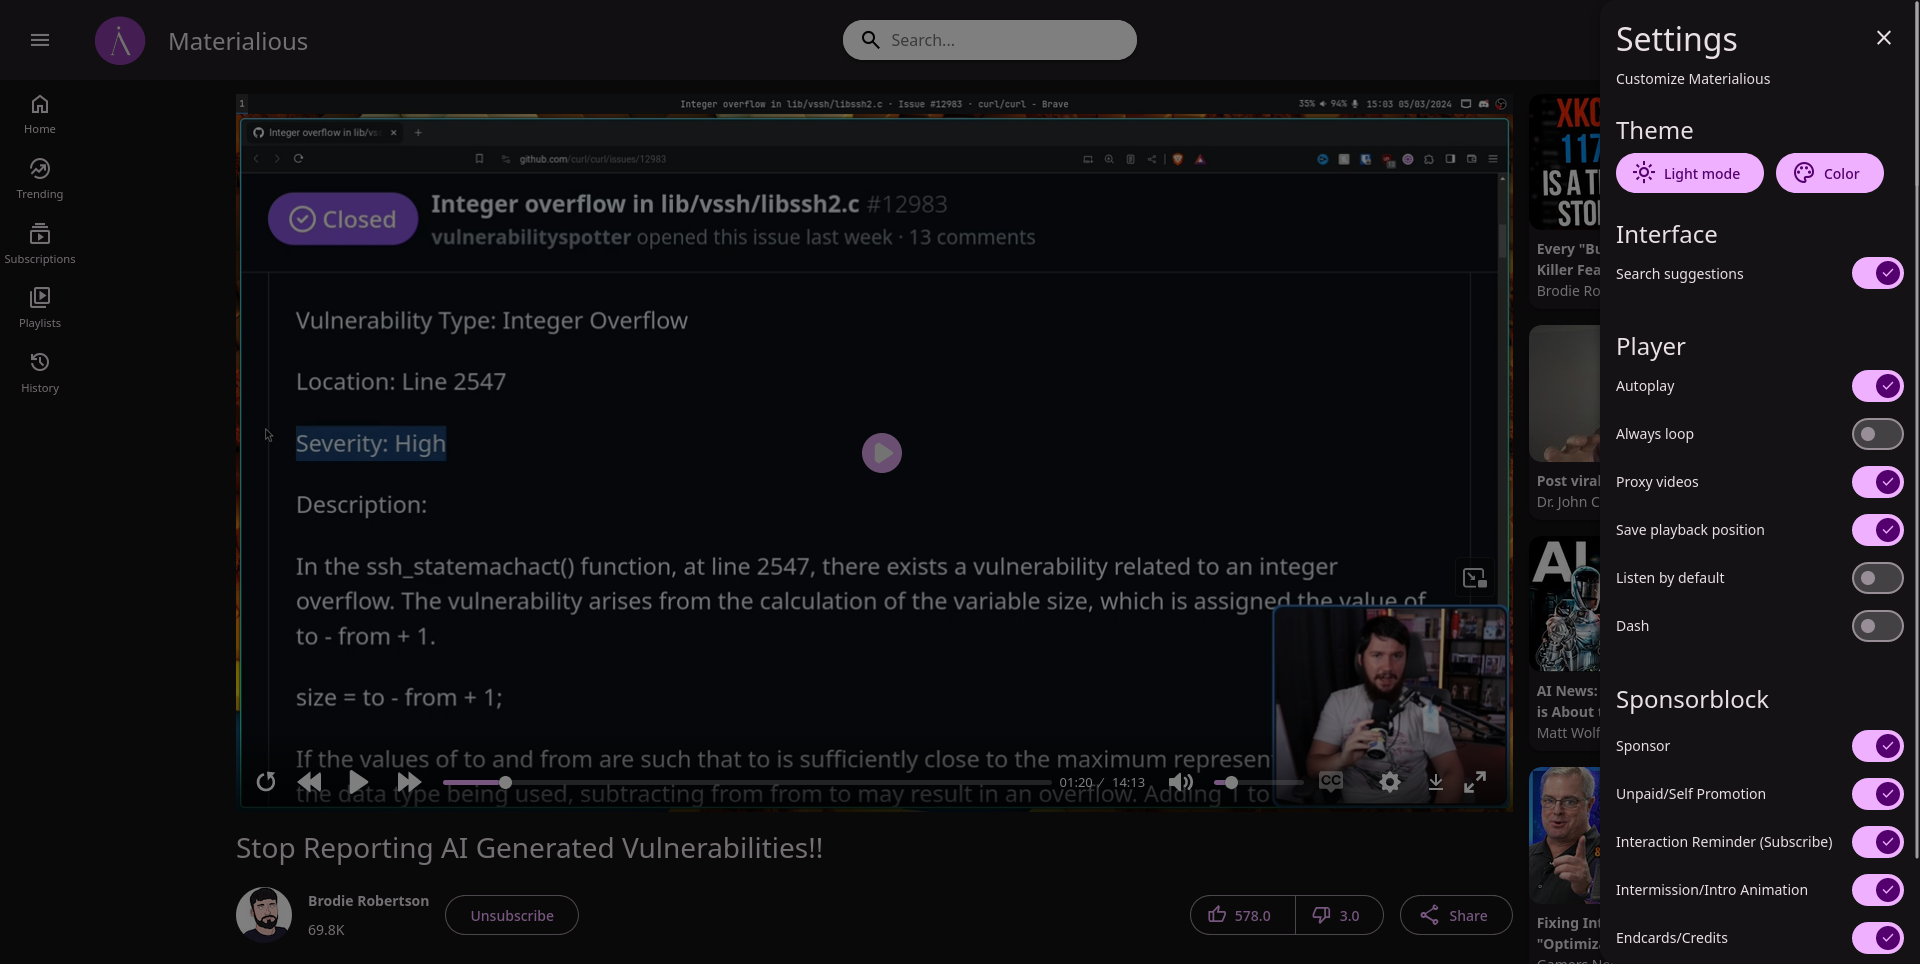
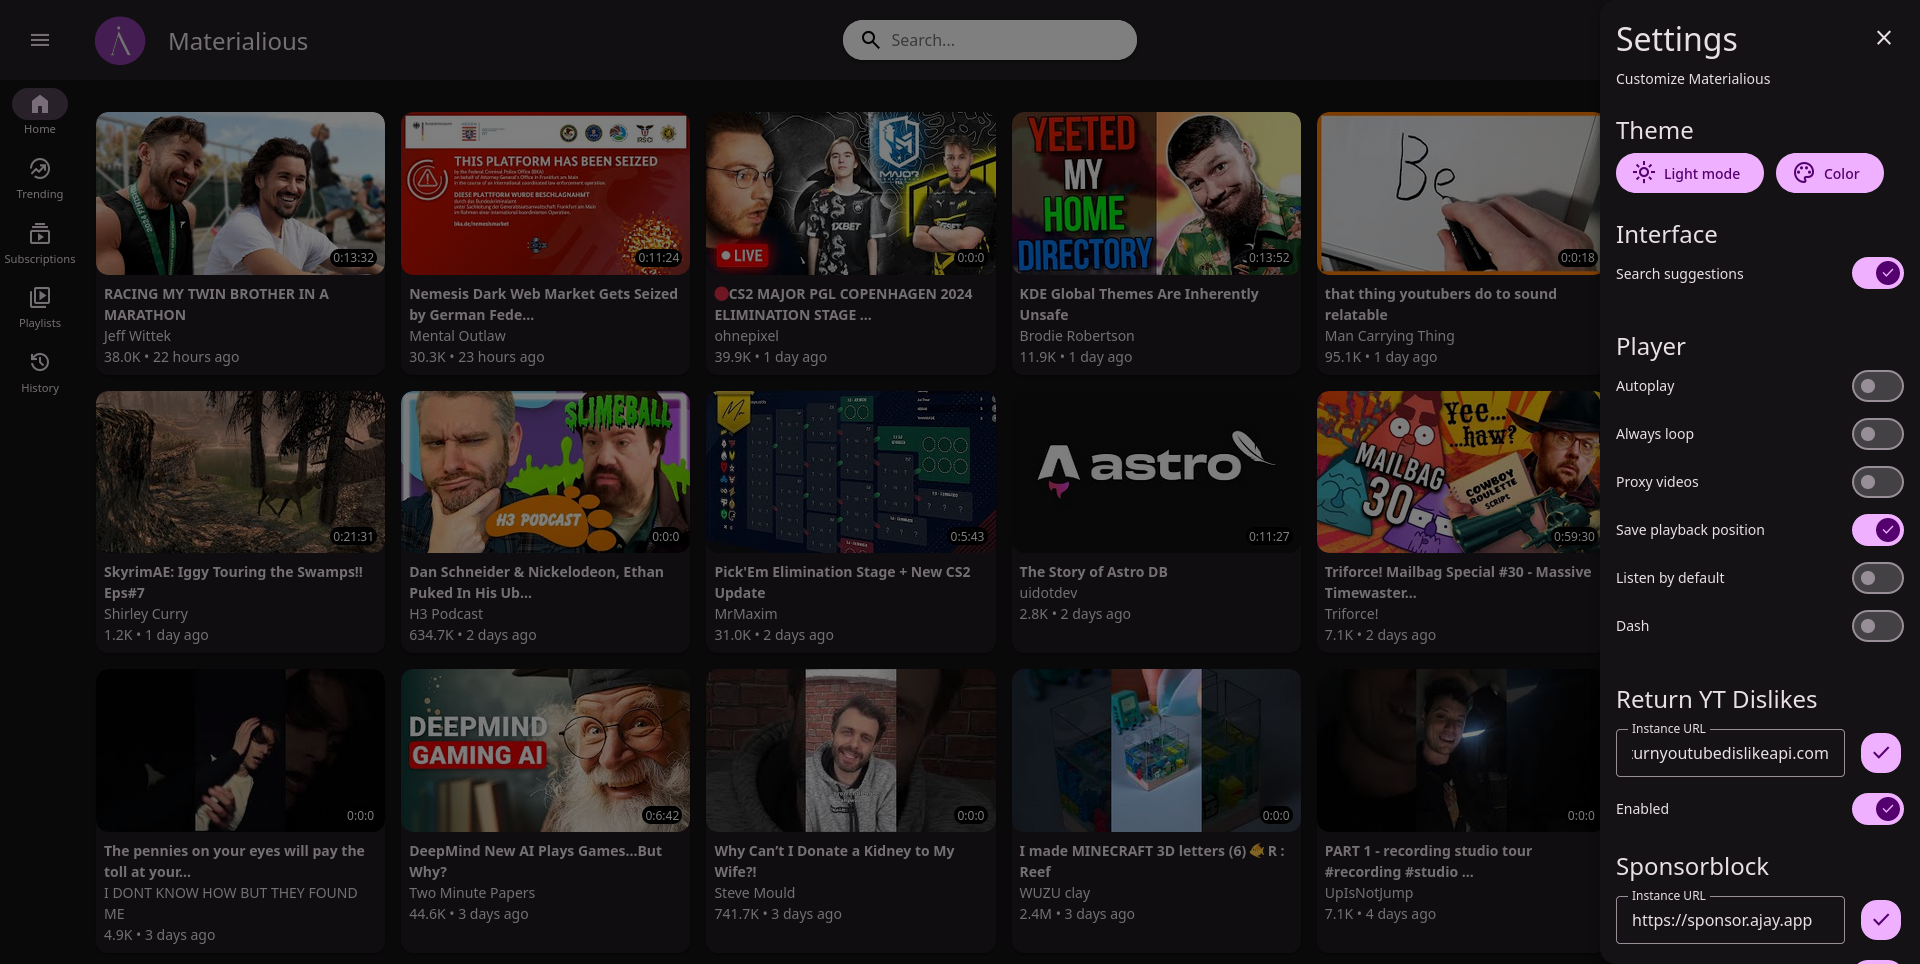
Added support for custom return yt & sponsorskip instances

diff --git a/materialious/src/routes/+layout.svelte b/materialious/src/routes/+layout.svelte
@@ -18,9 +18,11 @@
 		playerListenByDefault,
 		playerProxyVideos,
 		playerSavePlaybackPosition,
+		returnYTDislikesInstance,
 		returnYtDislikes,
 		sponsorBlock,
 		sponsorBlockCategories,
+		sponsorBlockUrl,
 		themeColor
 	} from '../store';
 
@@ -71,6 +73,9 @@
 	});
 
 	let notifications: Notification[] = [];
+
+	let sponsorBlockInstance = get(sponsorBlockUrl);
+	let returnYTInstance = get(returnYTDislikesInstance);
 
 	const pages = [
 		{
@@ -413,6 +418,18 @@
 	<div class="settings">
 		<h6>Return YT Dislikes</h6>
 
+		<form on:submit|preventDefault={() => returnYTDislikesInstance.set(returnYTInstance)}>
+			<nav>
+				<div class="field label border">
+					<input bind:value={returnYTInstance} name="returnyt-instance" type="text" />
+					<label for="returnyt-instance">Instance URL</label>
+				</div>
+				<button class="square round">
+					<i>done</i>
+				</button>
+			</nav>
+		</form>
+
 		<nav class="no-padding">
 			<div class="max">
 				<p>Enabled</p>
@@ -430,6 +447,18 @@
 
 	<div class="settings">
 		<h6>Sponsorblock</h6>
+
+		<form on:submit|preventDefault={() => sponsorBlockUrl.set(sponsorBlockInstance)}>
+			<nav>
+				<div class="field label border">
+					<input bind:value={sponsorBlockInstance} name="sponsorblock-instance" type="text" />
+					<label for="sponsorblock-instance">Instance URL</label>
+				</div>
+				<button class="square round">
+					<i>done</i>
+				</button>
+			</nav>
+		</form>
 
 		<nav class="no-padding">
 			<div class="max">
@@ -516,5 +545,9 @@
 
 	.settings h6 {
 		margin: 1em 0 0.3em 0;
+	}
+
+	form {
+		margin: 1em 0;
 	}
 </style>

diff --git a/materialious/src/routes/watch/[slug]/+page.ts b/materialious/src/routes/watch/[slug]/+page.ts
@@ -1,7 +1,7 @@
 import { amSubscribed, getComments, getDislikes, getVideo, postHistory } from '$lib/Api/index.js';
 import { phaseDescription } from '$lib/misc';
 import { get } from 'svelte/store';
-import { auth, playerProxyVideos, sponsorBlock } from '../../../store';
+import { auth, playerProxyVideos, returnYtDislikes } from '../../../store';
 
 export async function load({ params }) {
   const video = await getVideo(params.slug, get(playerProxyVideos));
@@ -11,7 +11,7 @@ export async function load({ params }) {
 
   return {
     video: video,
-    returnYTDislikes: get(sponsorBlock) ? await getDislikes(params.slug) : null,
+    returnYTDislikes: get(returnYtDislikes) ? await getDislikes(params.slug) : null,
     comments: video.liveNow ? null : await getComments(params.slug, { sort_by: "top", source: "youtube" }),
     subscribed: await amSubscribed(video.authorId),
     content: phaseDescription(video.description)

diff --git a/materialious/src/lib/Player.svelte b/materialious/src/lib/Player.svelte
@@ -7,7 +7,7 @@
 	import { SponsorBlock, type Category } from 'sponsorblock-api';
 	import { onDestroy, onMount } from 'svelte';
 	import { get } from 'svelte/store';
-	import { sponsorBlock as sponsorBlockStore } from '../store';
+	import { sponsorBlock as sponsorBlockStore, sponsorBlockUrl } from '../store';
 
 	import type { MediaPlayerClass } from 'dashjs';
 	import {
@@ -66,7 +66,7 @@
 			const currentCategories = get(sponsorBlockCategories);
 
 			if (currentCategories.length > 0) {
-				sponsorBlock = new SponsorBlock('');
+				sponsorBlock = new SponsorBlock('', { baseURL: get(sponsorBlockUrl) });
 
 				try {
 					const segments = await sponsorBlock.getSegments(

diff --git a/materialious/src/store.ts b/materialious/src/store.ts
@@ -22,4 +22,5 @@ export const interfaceSearchSuggestions = persisted("searchSuggestions", true);
 export const auth: Writable<null | { username: string, token: string; }> = persisted("authToken", null);
 
 export const sponsorBlock = persisted("sponsorBlock", true);
+export const sponsorBlockUrl = persisted("sponsorBlockUrl", import.meta.env.VITE_DEFAULT_SPONSERBLOCK_INSTANCE);
 export const sponsorBlockCategories: Writable<string[]> = persisted("sponsorBlockCategories", []);

diff --git a/materialious/src/routes/watch/[slug]/+page.svelte b/materialious/src/routes/watch/[slug]/+page.svelte
@@ -141,7 +141,7 @@
 			</article>
 
 			<div class="space"></div>
-			{#if data.comments && typeof data.comments.comments !== 'undefined' && data.comments.comments.length > 0}
+			{#if data.comments && data.comments.comments.length > 0}
 				<h6>{numberWithCommas(data.comments.commentCount)} comments</h6>
 				{#each data.comments.comments as comment}
 					<Comment {comment} videoId={data.video.videoId}></Comment>

diff --git a/README.md b/README.md
@@ -25,7 +25,6 @@ Modern material design for Invidious
 - Playlist support.
 - History deletion.
 - Load more for comments, history, subscriptions & search results.
-- Editing used instance for Return Dislikes & Sponsorblock.
 - Audio only mode.
 - PWA support.
 
@@ -33,3 +32,4 @@ Modern material design for Invidious
 ![Preview of player](./previews/player-preview.png)
 ![Preview of settings](./previews/setting-preview.png)
 ![Preview of channel](./previews/channel-preview.png)
+![Preview of chapters](./previews/chapter-previews.png)
